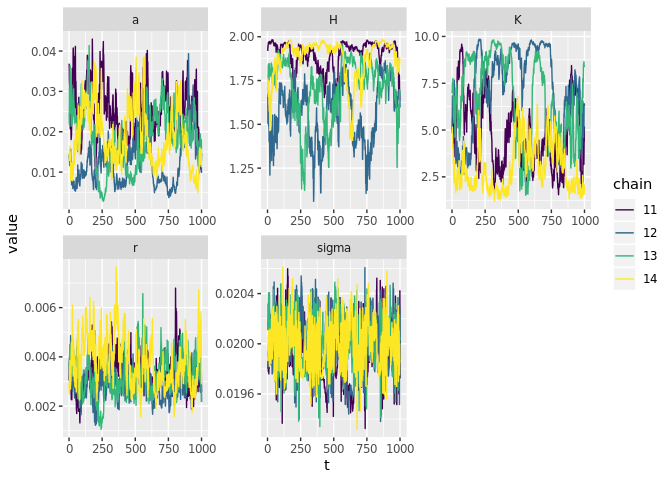
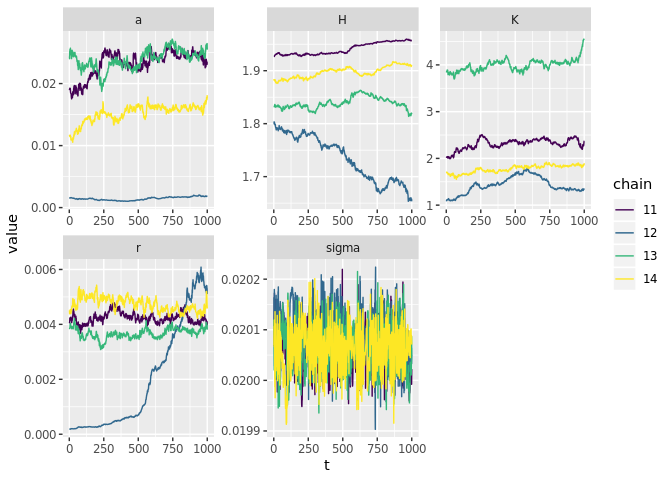
actually 100 reps this time, broad prior for r, bad convergence

diff --git a/code/greta.md b/code/greta.md
@@ -28,7 +28,7 @@ data %>% ggplot(aes(t,x, group=reps)) + geom_line(alpha=0.1)
 
 ``` r
 wide <- data %>% spread(reps, x) %>% select(-t) %>% 
-  select(1:5) %>% # how many reps we use
+  # select(1:5) %>% # how many reps we use
   as.matrix()
 n <- dim(wide)[1]
 ```
@@ -39,13 +39,13 @@ x_t <- wide[-n,] # data$x[-100]
 dim(x_t)
 ```
 
-    ## [1] 999   5
+    ## [1] 999 100
 
 ``` r
 dim(x_t1)
 ```
 
-    ## [1] 999   5
+    ## [1] 999 100
 
 ``` r
 #tibble(x_t, x_t1) %>% ggplot(aes(x_t, x_t1)) + geom_point()
@@ -82,17 +82,17 @@ system.time({
     ## 
         warmup                                           0/3000 | eta:  ?s          
         warmup =                                        50/3000 | eta:  5m          
-        warmup =                                       100/3000 | eta:  3m          
+        warmup =                                       100/3000 | eta:  4m          
         warmup ==                                      150/3000 | eta:  3m          
-        warmup ===                                     200/3000 | eta:  2m          
+        warmup ===                                     200/3000 | eta:  3m          
         warmup ===                                     250/3000 | eta:  2m          
         warmup ====                                    300/3000 | eta:  2m          
         warmup ====                                    350/3000 | eta:  2m          
         warmup =====                                   400/3000 | eta:  2m          
-        warmup ======                                  450/3000 | eta:  1m          
-        warmup ======                                  500/3000 | eta:  1m          
-        warmup =======                                 550/3000 | eta:  1m          
-        warmup ========                                600/3000 | eta:  1m          
+        warmup ======                                  450/3000 | eta:  2m          
+        warmup ======                                  500/3000 | eta:  2m          
+        warmup =======                                 550/3000 | eta:  2m          
+        warmup ========                                600/3000 | eta:  2m          
         warmup ========                                650/3000 | eta:  1m          
         warmup =========                               700/3000 | eta:  1m          
         warmup ==========                              750/3000 | eta:  1m          
@@ -106,66 +106,66 @@ system.time({
         warmup ===============                        1150/3000 | eta:  1m          
         warmup ===============                        1200/3000 | eta:  1m          
         warmup ================                       1250/3000 | eta:  1m          
-        warmup ================                       1300/3000 | eta: 48s          
-        warmup =================                      1350/3000 | eta: 47s          
-        warmup ==================                     1400/3000 | eta: 45s          
-        warmup ==================                     1450/3000 | eta: 44s          
-        warmup ===================                    1500/3000 | eta: 42s          
-        warmup ====================                   1550/3000 | eta: 41s          
-        warmup ====================                   1600/3000 | eta: 39s          
-        warmup =====================                  1650/3000 | eta: 38s          
-        warmup ======================                 1700/3000 | eta: 36s          
-        warmup ======================                 1750/3000 | eta: 35s          
-        warmup =======================                1800/3000 | eta: 33s          
-        warmup =======================                1850/3000 | eta: 32s          
-        warmup ========================               1900/3000 | eta: 30s          
-        warmup =========================              1950/3000 | eta: 29s          
-        warmup =========================              2000/3000 | eta: 27s          
-        warmup ==========================             2050/3000 | eta: 26s          
-        warmup ===========================            2100/3000 | eta: 25s          
-        warmup ===========================            2150/3000 | eta: 23s          
-        warmup ============================           2200/3000 | eta: 22s          
-        warmup ============================           2250/3000 | eta: 20s          
-        warmup =============================          2300/3000 | eta: 19s          
-        warmup ==============================         2350/3000 | eta: 18s          
-        warmup ==============================         2400/3000 | eta: 16s          
-        warmup ===============================        2450/3000 | eta: 15s          
-        warmup ================================       2500/3000 | eta: 14s          
-        warmup ================================       2550/3000 | eta: 12s          
-        warmup =================================      2600/3000 | eta: 11s          
-        warmup ==================================     2650/3000 | eta:  9s          
-        warmup ==================================     2700/3000 | eta:  8s          
-        warmup ===================================    2750/3000 | eta:  7s          
-        warmup ===================================    2800/3000 | eta:  5s          
-        warmup ====================================   2850/3000 | eta:  4s          
+        warmup ================                       1300/3000 | eta:  1m          
+        warmup =================                      1350/3000 | eta:  1m          
+        warmup ==================                     1400/3000 | eta:  1m          
+        warmup ==================                     1450/3000 | eta:  1m          
+        warmup ===================                    1500/3000 | eta:  1m          
+        warmup ====================                   1550/3000 | eta: 49s          
+        warmup ====================                   1600/3000 | eta: 47s          
+        warmup =====================                  1650/3000 | eta: 45s          
+        warmup ======================                 1700/3000 | eta: 44s          
+        warmup ======================                 1750/3000 | eta: 42s          
+        warmup =======================                1800/3000 | eta: 40s          
+        warmup =======================                1850/3000 | eta: 38s          
+        warmup ========================               1900/3000 | eta: 37s          
+        warmup =========================              1950/3000 | eta: 35s          
+        warmup =========================              2000/3000 | eta: 33s          
+        warmup ==========================             2050/3000 | eta: 32s          
+        warmup ===========================            2100/3000 | eta: 30s          
+        warmup ===========================            2150/3000 | eta: 28s          
+        warmup ============================           2200/3000 | eta: 27s          
+        warmup ============================           2250/3000 | eta: 25s          
+        warmup =============================          2300/3000 | eta: 23s          
+        warmup ==============================         2350/3000 | eta: 21s          
+        warmup ==============================         2400/3000 | eta: 20s          
+        warmup ===============================        2450/3000 | eta: 18s          
+        warmup ================================       2500/3000 | eta: 16s          
+        warmup ================================       2550/3000 | eta: 15s          
+        warmup =================================      2600/3000 | eta: 13s          
+        warmup ==================================     2650/3000 | eta: 11s          
+        warmup ==================================     2700/3000 | eta: 10s          
+        warmup ===================================    2750/3000 | eta:  8s          
+        warmup ===================================    2800/3000 | eta:  7s          
+        warmup ====================================   2850/3000 | eta:  5s          
         warmup =====================================  2900/3000 | eta:  3s          
-        warmup =====================================  2950/3000 | eta:  1s          
+        warmup =====================================  2950/3000 | eta:  2s          
         warmup ====================================== 3000/3000 | eta:  0s          
     ## 
       sampling                                           0/1000 | eta:  ?s          
-      sampling ==                                       50/1000 | eta: 29s          
-      sampling ====                                    100/1000 | eta: 35s          
-      sampling ======                                  150/1000 | eta: 27s          
-      sampling ========                                200/1000 | eta: 25s          
-      sampling ==========                              250/1000 | eta: 24s          
-      sampling ===========                             300/1000 | eta: 21s          
-      sampling =============                           350/1000 | eta: 19s          
-      sampling ===============                         400/1000 | eta: 18s          
-      sampling =================                       450/1000 | eta: 16s          
-      sampling ===================                     500/1000 | eta: 14s          
-      sampling =====================                   550/1000 | eta: 13s          
-      sampling =======================                 600/1000 | eta: 12s          
-      sampling =========================               650/1000 | eta: 10s          
-      sampling ===========================             700/1000 | eta:  8s          
-      sampling ============================            750/1000 | eta:  7s          
-      sampling ==============================          800/1000 | eta:  5s          
-      sampling ================================        850/1000 | eta:  4s          
+      sampling ==                                       50/1000 | eta: 35s          
+      sampling ====                                    100/1000 | eta: 41s          
+      sampling ======                                  150/1000 | eta: 32s          
+      sampling ========                                200/1000 | eta: 30s          
+      sampling ==========                              250/1000 | eta: 28s          
+      sampling ===========                             300/1000 | eta: 25s          
+      sampling =============                           350/1000 | eta: 23s          
+      sampling ===============                         400/1000 | eta: 21s          
+      sampling =================                       450/1000 | eta: 18s          
+      sampling ===================                     500/1000 | eta: 17s          
+      sampling =====================                   550/1000 | eta: 15s          
+      sampling =======================                 600/1000 | eta: 14s          
+      sampling =========================               650/1000 | eta: 12s          
+      sampling ===========================             700/1000 | eta: 10s          
+      sampling ============================            750/1000 | eta:  8s          
+      sampling ==============================          800/1000 | eta:  6s          
+      sampling ================================        850/1000 | eta:  5s          
       sampling ==================================      900/1000 | eta:  3s          
-      sampling ====================================    950/1000 | eta:  1s          
+      sampling ====================================    950/1000 | eta:  2s          
       sampling ====================================== 1000/1000 | eta:  0s
 
     ##    user  system elapsed 
-    ## 224.338  22.910 109.255
+    ## 241.149  23.454 131.958
 
 ``` r
 summary(draws)
@@ -181,20 +181,20 @@ summary(draws)
     ##    plus standard error of the mean:
     ## 
     ##           Mean        SD  Naive SE Time-series SE
-    ## K     5.410846 2.5430072 4.021e-02      3.673e-01
-    ## a     0.018627 0.0078987 1.249e-04      9.215e-04
-    ## H     1.764103 0.1926640 3.046e-03      2.092e-02
-    ## sigma 0.019977 0.0001962 3.102e-06      9.807e-06
-    ## r     0.003308 0.0008387 1.326e-05      6.622e-05
+    ## K     2.377414 9.926e-01 1.569e-02      3.791e-02
+    ## a     0.015953 9.158e-03 1.448e-04      2.732e-04
+    ## H     1.853113 8.069e-02 1.276e-03      8.372e-03
+    ## sigma 0.020069 4.612e-05 7.293e-07      1.801e-06
+    ## r     0.003648 1.433e-03 2.265e-05      4.819e-04
     ## 
     ## 2. Quantiles for each variable:
     ## 
-    ##           2.5%     25%      50%     75%    97.5%
-    ## K     1.690631 3.21327 5.026350 7.70264 9.635007
-    ## a     0.005634 0.01263 0.018340 0.02432 0.035004
-    ## H     1.303297 1.65279 1.816050 1.92901 1.972919
-    ## sigma 0.019577 0.01985 0.019978 0.02010 0.020367
-    ## r     0.001920 0.00275 0.003206 0.00377 0.005285
+    ##            2.5%      25%      50%      75%    97.5%
+    ## K     1.2007307 1.665663 1.956015 2.806278 4.109700
+    ## a     0.0010956 0.008410 0.017736 0.024010 0.025971
+    ## H     1.6766729 1.811339 1.869534 1.919508 1.956462
+    ## sigma 0.0199804 0.020037 0.020070 0.020100 0.020162
+    ## r     0.0002593 0.003551 0.004071 0.004535 0.005325
 
 ``` r
 #bayesplot::mcmc_trace(draws)
